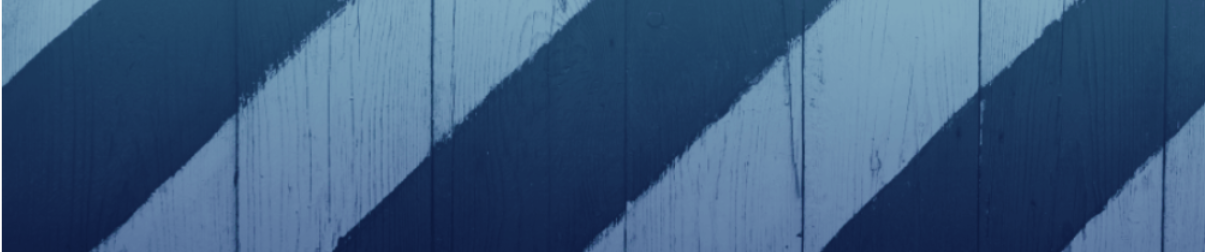
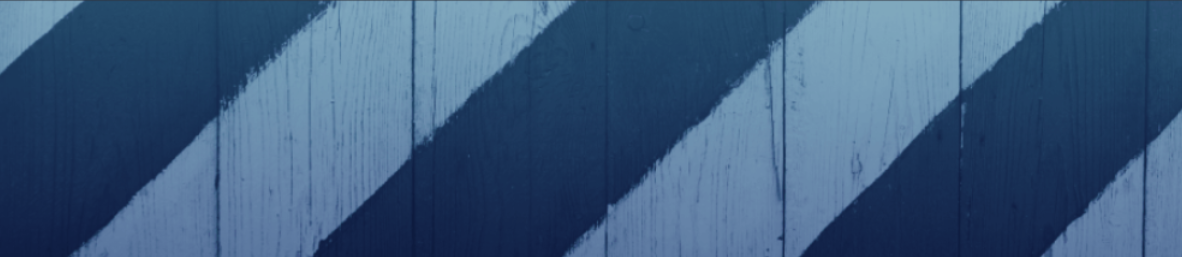
images changed

diff --git a/style.css b/style.css
@@ -70,9 +70,9 @@ footer{
     position:relative;
     height: 190px;
     background: #081a35;
-    background-image: repeating-radial-gradient(#445877, #203657 10%, #081a35 20%);
-    /* background:url(./assets/images/sub-back.png) no-repeat;
-    background-size: 100%; */
+    /* background-image: repeating-radial-gradient(#445877, #203657 10%, #081a35 20%); */
+    background:url(./assets/images/sub-back.png) no-repeat;
+    background-size: 100% 100%;
     
 }
 .subtitle{
@@ -147,16 +147,7 @@ footer{
 
 }
 
-/* #footer-links a:after {
-    content: '';
-    width: 100%;
-    position: absolute;
-    left: 0;
-    bottom: -6px;
-    color:#445877;    
-    border-width: 0 0 4px;
-    border-style: solid;
-} */
+
  
 #header-links a:hover{
     color: rgb(225, 235, 236);
@@ -187,6 +178,10 @@ padding:30px;
    color: #445877;
    font-weight: 800;
  
+}
+aside div{
+    width: 170px;
+    text-align: right;
 }
 #paragraphs{
     width:70%;
@@ -256,7 +251,7 @@ img {
         flex:100%;
     }
     #header-links a{
-        font-size:14px ;
+        font-size:12px ;
     }
     #paragraphs{
         
@@ -264,7 +259,7 @@ img {
     }
     #title h1{
        
-        font-size: 35px;
+        font-size: 31px;
      
     }
     aside{
@@ -279,7 +274,7 @@ img {
         flex:100%;
     }
     #header-links a{
-        font-size:10px ;
+        font-size:8px ;
     }
     #paragraphs{
         
@@ -287,7 +282,7 @@ img {
     }
     #title h1{
        
-        font-size: 28px;
+        font-size: 25px;
      
     }
     aside{

diff --git a/index.html b/index.html
@@ -85,7 +85,7 @@
                     </div>
                 </div>
                 <div class="app" id="puzzle">
-                    <a  href="https://www.google.com/">   <img src="./assets/images/pastelPuzzles.jpg" alt=""></a>
+                    <a  href="https://www.google.com/">   <img src="./assets/images/pastelPuzzles.png" alt=""></a>
                     <div>
                         <h1>Pastel Puzzles</h1>
                         <h4>Mern Stack</h4>
